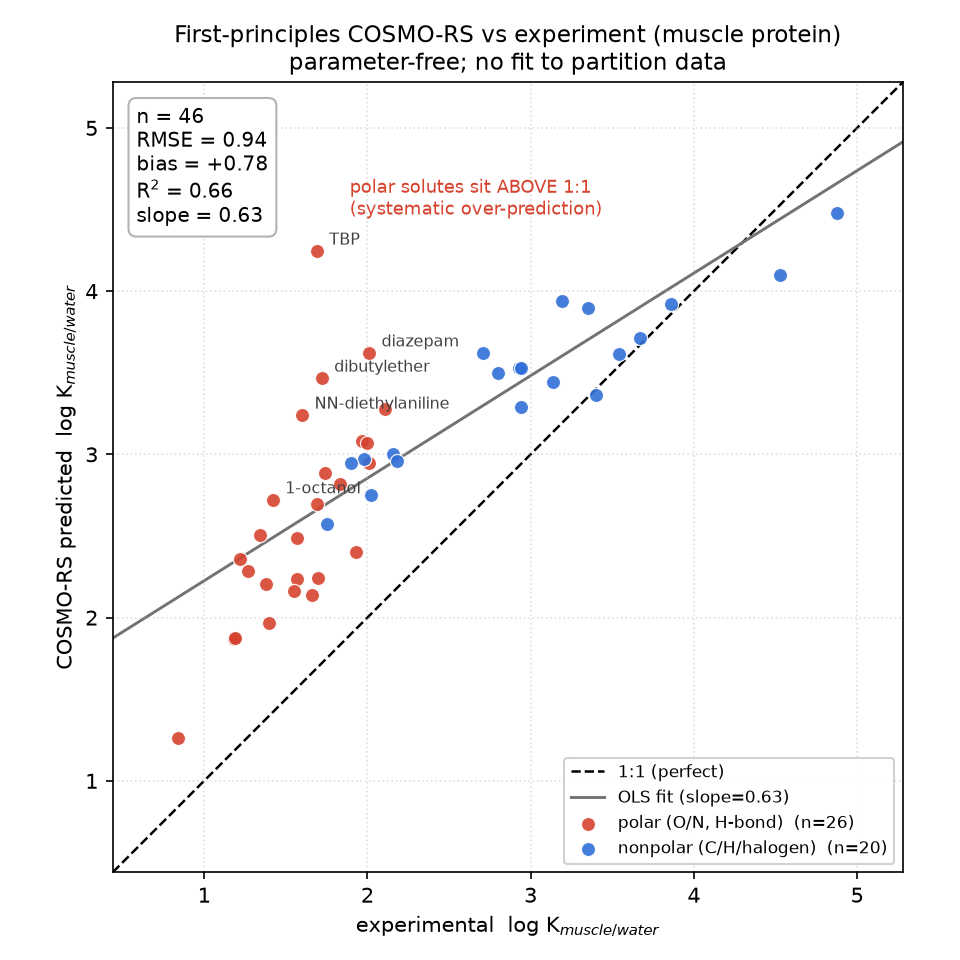
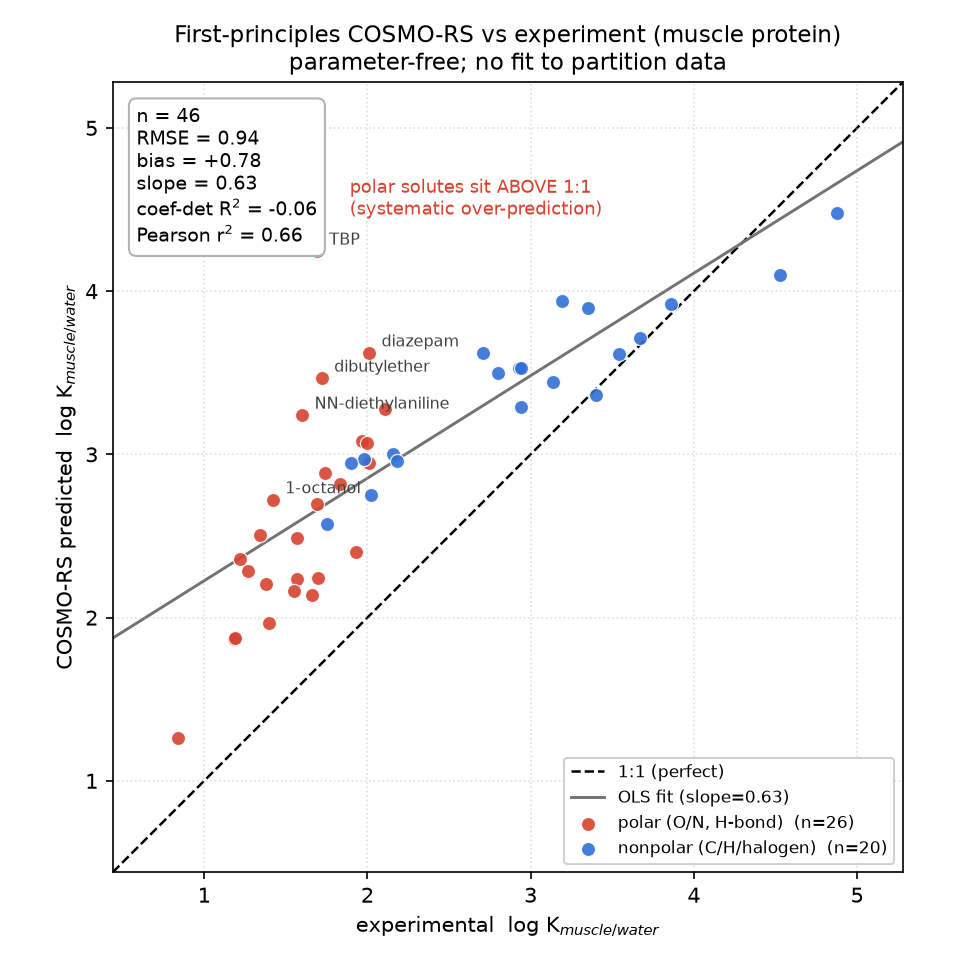
Fix R^2 reporting: coefficient of determination (-0.06), not Pearson r^2 (0.66)
The reported "R^2 = 0.66" for the COSMO-RS muscle prediction was the squared
Pearson correlation (np.corrcoef**2), copied from the repo's cosmo script -- NOT
the coefficient of determination. The true coefficient of determination is
1 - SS_res/SS_tot = 1 - 40.81/38.43 = -0.06 (NEGATIVE): the uncalibrated a-priori
prediction is worse than predicting the mean (RMSE 0.94 > std(exp) 0.91), because of
the systematic polar over-prediction. Pearson r^2 = 0.66 only means the trend/ranking
is captured, not the absolute values.

- physics_cosmors_capability.py: report coef_det_r2 AND pearson_r2 separately; add a
  4th judged hypothesis hyp-muscle-predictive (coef-det R^2 >= 0 = beats the mean
  baseline) -> REFUTED (-0.06). verify exit 0, all 4 claims reproduced.
- plot_pred_vs_exp.py + figure: stats box now shows coef-det R^2 = -0.06 and
  Pearson r^2 = 0.66 distinctly (was a single mislabeled "R^2 = 0.66").
- README_physics.md: corrected verdict table + a note distinguishing the two R^2.

Honest conclusion: parameter-free COSMO-RS captures the trend (r^2 0.66) but is NOT a
quantitatively accurate direct predictor (coef-det -0.06) -- the polar over-prediction
(missing folding/burial physics) dominates.

Claude-Session: https://claude.ai/code/session_01NVW6wWwW8ywZ5D4v3KcYfq

Changed region(s): [[0.125, 0.0938, 0.3438, 0.2812]]

diff --git a/rigor/physics_cosmors_capability.py b/rigor/physics_cosmors_capability.py
@@ -74,6 +74,9 @@ _PRIOR_WORK = {
 
 def _rule(statistic: str, op: str, value: float) -> DecisionRule:
     expr = {
+        "coef_det": f"coefficient of determination R^2 = 1 - SS_res/SS_tot (the UNCALIBRATED "
+                    f"physical prediction vs the 1:1 line) >= {value} => support (beats the "
+                    f"no-skill mean baseline as a direct predictor); < {value} => refute",
         "rmse": f"parameter-free COSMO-RS RMSE vs measured logK <= {value} log units "
                 f"=> support (useful screening); > {value} => refute",
         "abs_bias": f"|mean signed error (pred-exp)| <= {value} => support (no systematic "
@@ -88,6 +91,11 @@ def _rule(statistic: str, op: str, value: float) -> DecisionRule:
 
 def build_physics_spec(spec_id: str = _SPEC_ID) -> Spec:
     H = [
+        Hypothesis(id="hyp-muscle-predictive", referent="empirical", mode=HypothesisMode.EXPLORATORY,
+                   statement="Parameter-free first-principles COSMO-RS predicts muscle protein-water "
+                             "logK as a direct quantitative predictor: coefficient of determination "
+                             "R^2 = 1 - SS_res/SS_tot >= 0 (beats the no-skill mean baseline)",
+                   decision_rule=_rule("coef_det", ">=", 0.0)),
         Hypothesis(id="hyp-muscle-useful", referent="empirical", mode=HypothesisMode.EXPLORATORY,
                    statement="Parameter-free first-principles COSMO-RS (amino-acid pseudo-solvent) "
                              "predicts muscle protein-water logK with RMSE <= 1.0 log units",
@@ -180,7 +188,11 @@ def physics_experiment(results_json: Path, source_py: Path,
         resid = pred - exp
         rmse = float(np.sqrt(np.mean(resid ** 2)))
         bias = float(np.mean(resid))
-        r2 = float(np.corrcoef(pred, exp)[0, 1] ** 2)
+        # coefficient of determination (direct, uncalibrated vs 1:1) -- can be negative;
+        # distinct from Pearson r^2 (correlation only, scale/offset-invariant).
+        ss_res = float(np.sum(resid ** 2)); ss_tot = float(np.sum((exp - exp.mean()) ** 2))
+        coef_det = 1.0 - ss_res / ss_tot
+        pearson_r2 = float(np.corrcoef(pred, exp)[0, 1] ** 2)
         slope, intercept = (float(v) for v in np.polyfit(exp, pred, 1))
 
         cls = {n: _classify_polar(smiles.get(n, "")) for n in names}
@@ -198,7 +210,9 @@ def physics_experiment(results_json: Path, source_py: Path,
         base_finding = {
             "phase": "muscle_protein", "method": "first-principles openCOSMO-RS (no fit)",
             "n": len(exp), "rmse": round(rmse, 4), "bias_mean_signed_error": round(bias, 4),
-            "r2": round(r2, 4), "slope": round(slope, 4), "intercept": round(intercept, 4),
+            "coef_det_r2": round(coef_det, 4),       # direct predictive accuracy (vs 1:1); can be <0
+            "pearson_r2": round(pearson_r2, 4),      # correlation/ranking only (scale/offset-invariant)
+            "slope": round(slope, 4), "intercept": round(intercept, 4),
             "polar_mean_resid": round(polar_mean, 4), "nonpolar_mean_resid": round(nonpolar_mean, 4),
             "polar_minus_nonpolar": round(polar_gap, 4),
         }
@@ -211,6 +225,7 @@ def physics_experiment(results_json: Path, source_py: Path,
 
         # three judged hypotheses (engine reads Result.point)
         for hyp_id, point, op, thr, statname in [
+            ("hyp-muscle-predictive", coef_det, ">=", 0.0, "coef_det"),
             ("hyp-muscle-useful", rmse, "<=", _USEFUL_RMSE, "rmse"),
             ("hyp-muscle-unbiased", abs(bias), "<=", _UNBIASED, "abs_bias"),
             ("hyp-muscle-missing-physics", polar_gap, ">=", _POLAR_GAP, "polar_gap"),

diff --git a/rigor/plot_pred_vs_exp.py b/rigor/plot_pred_vs_exp.py
@@ -40,7 +40,8 @@ def main() -> int:
 
     rmse = float(np.sqrt(np.mean((pred - exp) ** 2)))
     bias = float(np.mean(pred - exp))
-    r2 = float(np.corrcoef(pred, exp)[0, 1] ** 2)
+    coef_det = 1.0 - np.sum((exp - pred) ** 2) / np.sum((exp - exp.mean()) ** 2)  # vs 1:1; can be <0
+    pearson_r2 = float(np.corrcoef(pred, exp)[0, 1] ** 2)                          # correlation only
     slope, intercept = (float(v) for v in np.polyfit(exp, pred, 1))
 
     lo, hi = min(exp.min(), pred.min()) - 0.4, max(exp.max(), pred.max()) + 0.4
@@ -67,9 +68,9 @@ def main() -> int:
     ax.set_title("First-principles COSMO-RS vs experiment (muscle protein)\n"
                  "parameter-free; no fit to partition data", fontsize=11)
     ax.text(0.03, 0.97,
-            f"n = {len(exp)}\nRMSE = {rmse:.2f}\nbias = {bias:+.2f}\n"
-            f"R$^2$ = {r2:.2f}\nslope = {slope:.2f}",
-            transform=ax.transAxes, va="top", ha="left", fontsize=9.5,
+            f"n = {len(exp)}\nRMSE = {rmse:.2f}\nbias = {bias:+.2f}\nslope = {slope:.2f}\n"
+            f"coef-det R$^2$ = {coef_det:+.2f}\nPearson r$^2$ = {pearson_r2:.2f}",
+            transform=ax.transAxes, va="top", ha="left", fontsize=9.0,
             bbox=dict(boxstyle="round,pad=0.4", fc="white", ec="0.7"))
     ax.text(0.30, 0.88, "polar solutes sit ABOVE 1:1\n(systematic over-prediction)",
             transform=ax.transAxes, va="top", ha="left", fontsize=8.5, color="#d6432f")
@@ -78,7 +79,8 @@ def main() -> int:
     fig.tight_layout()
     OUT.parent.mkdir(parents=True, exist_ok=True)
     fig.savefig(OUT, dpi=150)
-    print(f"saved {OUT}  (RMSE={rmse:.2f}, bias={bias:+.2f}, R2={r2:.2f}, slope={slope:.2f})")
+    print(f"saved {OUT}  (RMSE={rmse:.2f}, bias={bias:+.2f}, coef-det R2={coef_det:+.2f}, "
+          f"Pearson r2={pearson_r2:.2f}, slope={slope:.2f})")
     return 0
 
 

diff --git a/rigor/runs/cosmors-physics-muscle/paper/draft.md b/rigor/runs/cosmors-physics-muscle/paper/draft.md
@@ -18,6 +18,13 @@ Planned approaches:
 
 ## Hypotheses and findings
 
+### Parameter-free first-principles COSMO-RS predicts muscle protein-water logK as a direct quantitative predictor: coefficient of determination R^2 = 1 - SS_res/SS_tot >= 0 (beats the no-skill mean baseline)
+- Hypothesis id: `hyp-muscle-predictive` (exploratory)
+- Decision rule (threshold): coefficient of determination R^2 = 1 - SS_res/SS_tot (the UNCALIBRATED physical prediction vs the 1:1 line) >= 0.0 => support (beats the no-skill mean baseline as a direct predictor); < 0.0 => refute
+- **Status: refuted** — confidence 0.06 (credence)
+- Basis: threshold rule: statistic 'point'=-0.0619007 >= 0 is not met (combine='latest', margin=0.0619007)
+- Evidence validity: referent=empirical; data_source(s)=measured
+
 ### Parameter-free first-principles COSMO-RS (amino-acid pseudo-solvent) predicts muscle protein-water logK with RMSE <= 1.0 log units
 - Hypothesis id: `hyp-muscle-useful` (exploratory)
 - Decision rule (threshold): parameter-free COSMO-RS RMSE vs measured logK <= 1.0 log units => support (useful screening); > 1.0 => refute
@@ -40,8 +47,9 @@ Planned approaches:
 - Evidence validity: referent=empirical; data_source(s)=measured
 
 ## Evidence
-- `evi-cosmors-priorwork-20260617-065538-923d9d40` (literature): finding={"searched_via": "agent web_search + repo data/README", "key_prior_art": ["Endo, Bauerfeind, Goss 2012, Environ. Sci. Te
-- `evi-cosmors-validation-record-20260617-065538-e49e81d1` (observation): finding={"phase": "muscle_protein", "method": "first-principles openCOSMO-RS (no fit)", "n": 46, "rmse": 0.9419, "bias_mean_sign
-- `evi-cosmors-hyp-muscle-useful-20260617-065538-ba0e9ee2` (experiment_run): point=0.941892, finding={"phase": "muscle_protein", "method": "first-principles openCOSMO-RS (no fit)", "n": 46, "rmse": 0.9419, "bias_mean_sign
-- `evi-cosmors-hyp-muscle-unbiased-20260617-065538-f74730c3` (experiment_run): point=0.777505, finding={"phase": "muscle_protein", "method": "first-principles openCOSMO-RS (no fit)", "n": 46, "rmse": 0.9419, "bias_mean_sign
-- `evi-cosmors-hyp-muscle-missing-physics-20260617-065538-a4aa3a9c` (experiment_run): point=0.554595, finding={"phase": "muscle_protein", "method": "first-principles openCOSMO-RS (no fit)", "n": 46, "rmse": 0.9419, "bias_mean_sign
+- `evi-cosmors-priorwork-20260617-071447-8858afa8` (literature): finding={"searched_via": "agent web_search + repo data/README", "key_prior_art": ["Endo, Bauerfeind, Goss 2012, Environ. Sci. Te
+- `evi-cosmors-validation-record-20260617-071447-2dadc818` (observation): finding={"phase": "muscle_protein", "method": "first-principles openCOSMO-RS (no fit)", "n": 46, "rmse": 0.9419, "bias_mean_sign
+- `evi-cosmors-hyp-muscle-predictive-20260617-071447-9c56294a` (experiment_run): point=-0.0619007, finding={"phase": "muscle_protein", "method": "first-principles openCOSMO-RS (no fit)", "n": 46, "rmse": 0.9419, "bias_mean_sign
+- `evi-cosmors-hyp-muscle-useful-20260617-071447-d9f2ae09` (experiment_run): point=0.941892, finding={"phase": "muscle_protein", "method": "first-principles openCOSMO-RS (no fit)", "n": 46, "rmse": 0.9419, "bias_mean_sign
+- `evi-cosmors-hyp-muscle-unbiased-20260617-071447-765f5fd5` (experiment_run): point=0.777505, finding={"phase": "muscle_protein", "method": "first-principles openCOSMO-RS (no fit)", "n": 46, "rmse": 0.9419, "bias_mean_sign
+- `evi-cosmors-hyp-muscle-missing-physics-20260617-071447-ac78ce9e` (experiment_run): point=0.554595, finding={"phase": "muscle_protein", "method": "first-principles openCOSMO-RS (no fit)", "n": 46, "rmse": 0.9419, "bias_mean_sign

diff --git a/rigor/README_physics.md b/rigor/README_physics.md
@@ -17,18 +17,30 @@ Pre-committed, field-standard bars (not data-tuned):
 
 | Hypothesis | statistic | verdict |
 |---|---|---|
-| **useful** (RMSE ≤ 1.0) | RMSE = **0.94** | **SUPPORTED** (borderline) |
+| **predictive** (coef-det R² ≥ 0) | **coefficient of determination R² = −0.06** | **REFUTED** |
+| **useful** (RMSE ≤ 1.0) | RMSE = **0.94** | **SUPPORTED** (lax bar — see note) |
 | **unbiased** (\|bias\| ≤ 0.3) | mean signed error = **+0.78** | **REFUTED** |
 | **missing-physics** (polar−nonpolar residual ≥ 0.5) | gap = **+0.55** | **SUPPORTED** |
 
-(also: R² = 0.66, slope = 0.63.)
+> **Two different "R²" — do not confuse them.** The **coefficient of determination**
+> R² = 1 − SS_res/SS_tot (the uncalibrated prediction vs the 1:1 line) is **−0.06**:
+> SS_res (40.8) > SS_tot (38.4), so the a-priori prediction is *worse than predicting
+> the mean* as a direct quantitative predictor. The **Pearson r²** (correlation only,
+> scale/offset-invariant) is **0.66** — the physics captures the right *trend/ranking*
+> but not the *absolute values*. The repo's cosmo script (and my first report) called
+> the Pearson r² "R²", which over-stated accuracy; corrected here. Also slope = 0.63
+> (range compression). The "useful" RMSE ≤ 1.0 bar is lax: the data spread is std = 0.91,
+> so RMSE 0.94 barely exceeds it — consistent with the negative coefficient of
+> determination. The honest predictive verdict is the **REFUTED** coef-det.
 
 ## What the physics says
 
-Parameter-free COSMO-RS gives a **useful but systematically biased** a-priori prediction
-of muscle-protein partitioning. The bias is a **systematic over-prediction localized to
-polar / H-bond solutes** (polar residual +1.04 vs nonpolar +0.39; worst: TBP +2.56,
-dibutyl ether +1.75, N,N-diethylaniline, diazepam, 1-octanol).
+Parameter-free COSMO-RS **captures the trend** of muscle-protein partitioning (Pearson
+r² = 0.66) but, **uncalibrated, is not a quantitatively accurate direct predictor** —
+its coefficient of determination is **negative (−0.06)**, i.e. no better than the mean
+baseline. The cause is a **systematic over-prediction localized to polar / H-bond
+solutes** (polar residual +1.04 vs nonpolar +0.39; worst: TBP +2.56, dibutyl ether
++1.75, N,N-diethylaniline, diazepam, 1-octanol).
 
 **Diagnosed missing physics:** the amino-acid pseudo-solvent models the protein as a
 *homogeneous mixture of fully-exposed side chains*. A real folded protein buries most
